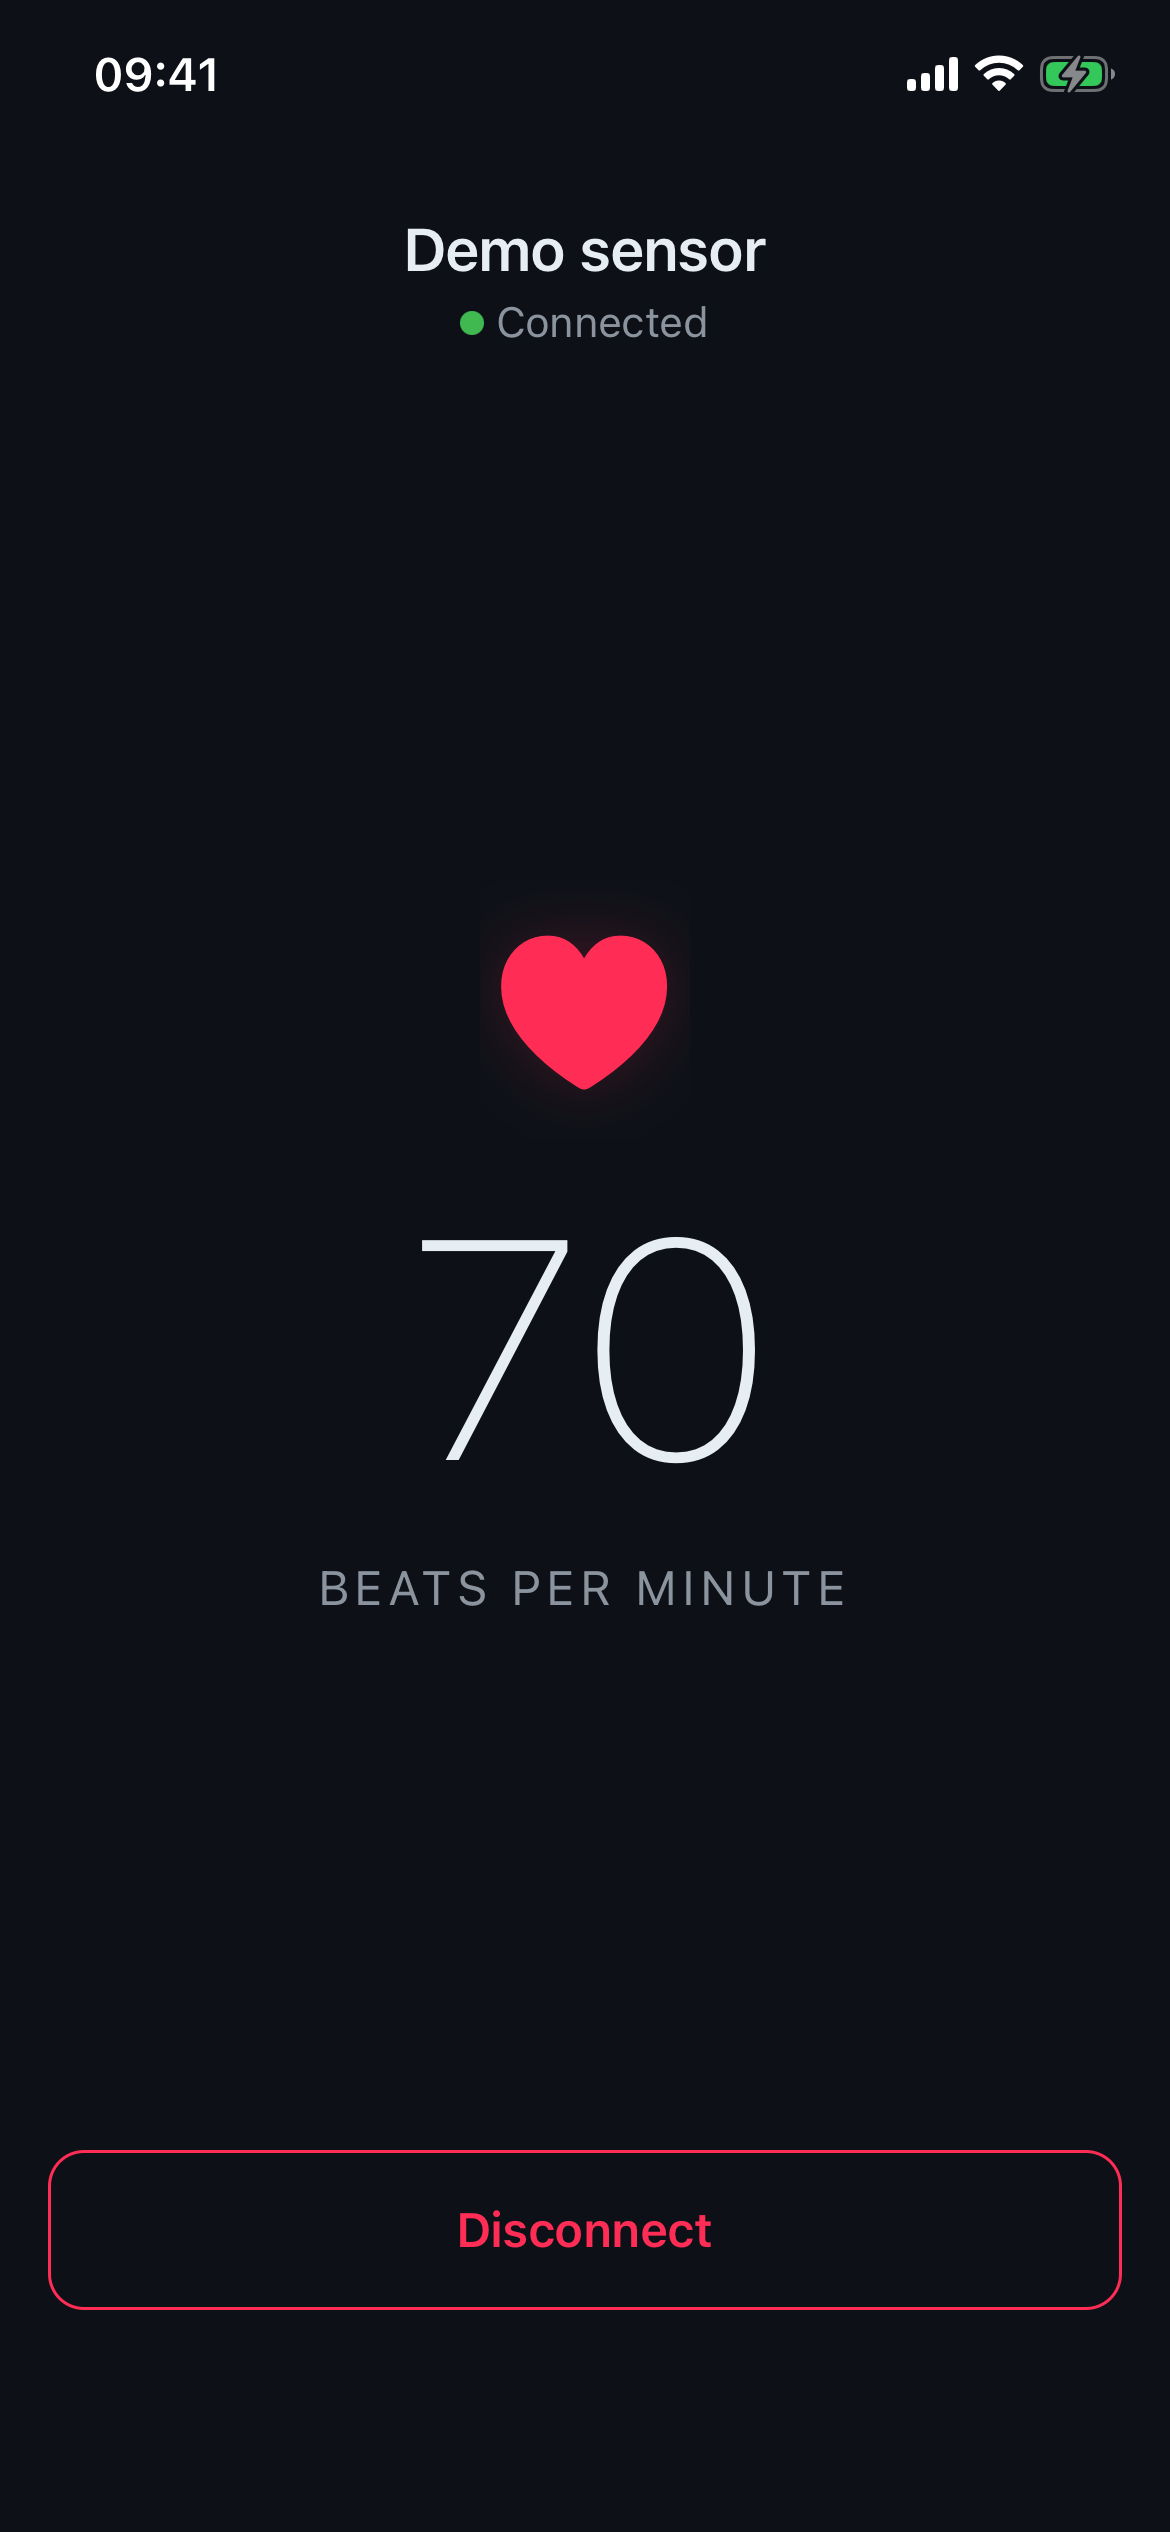
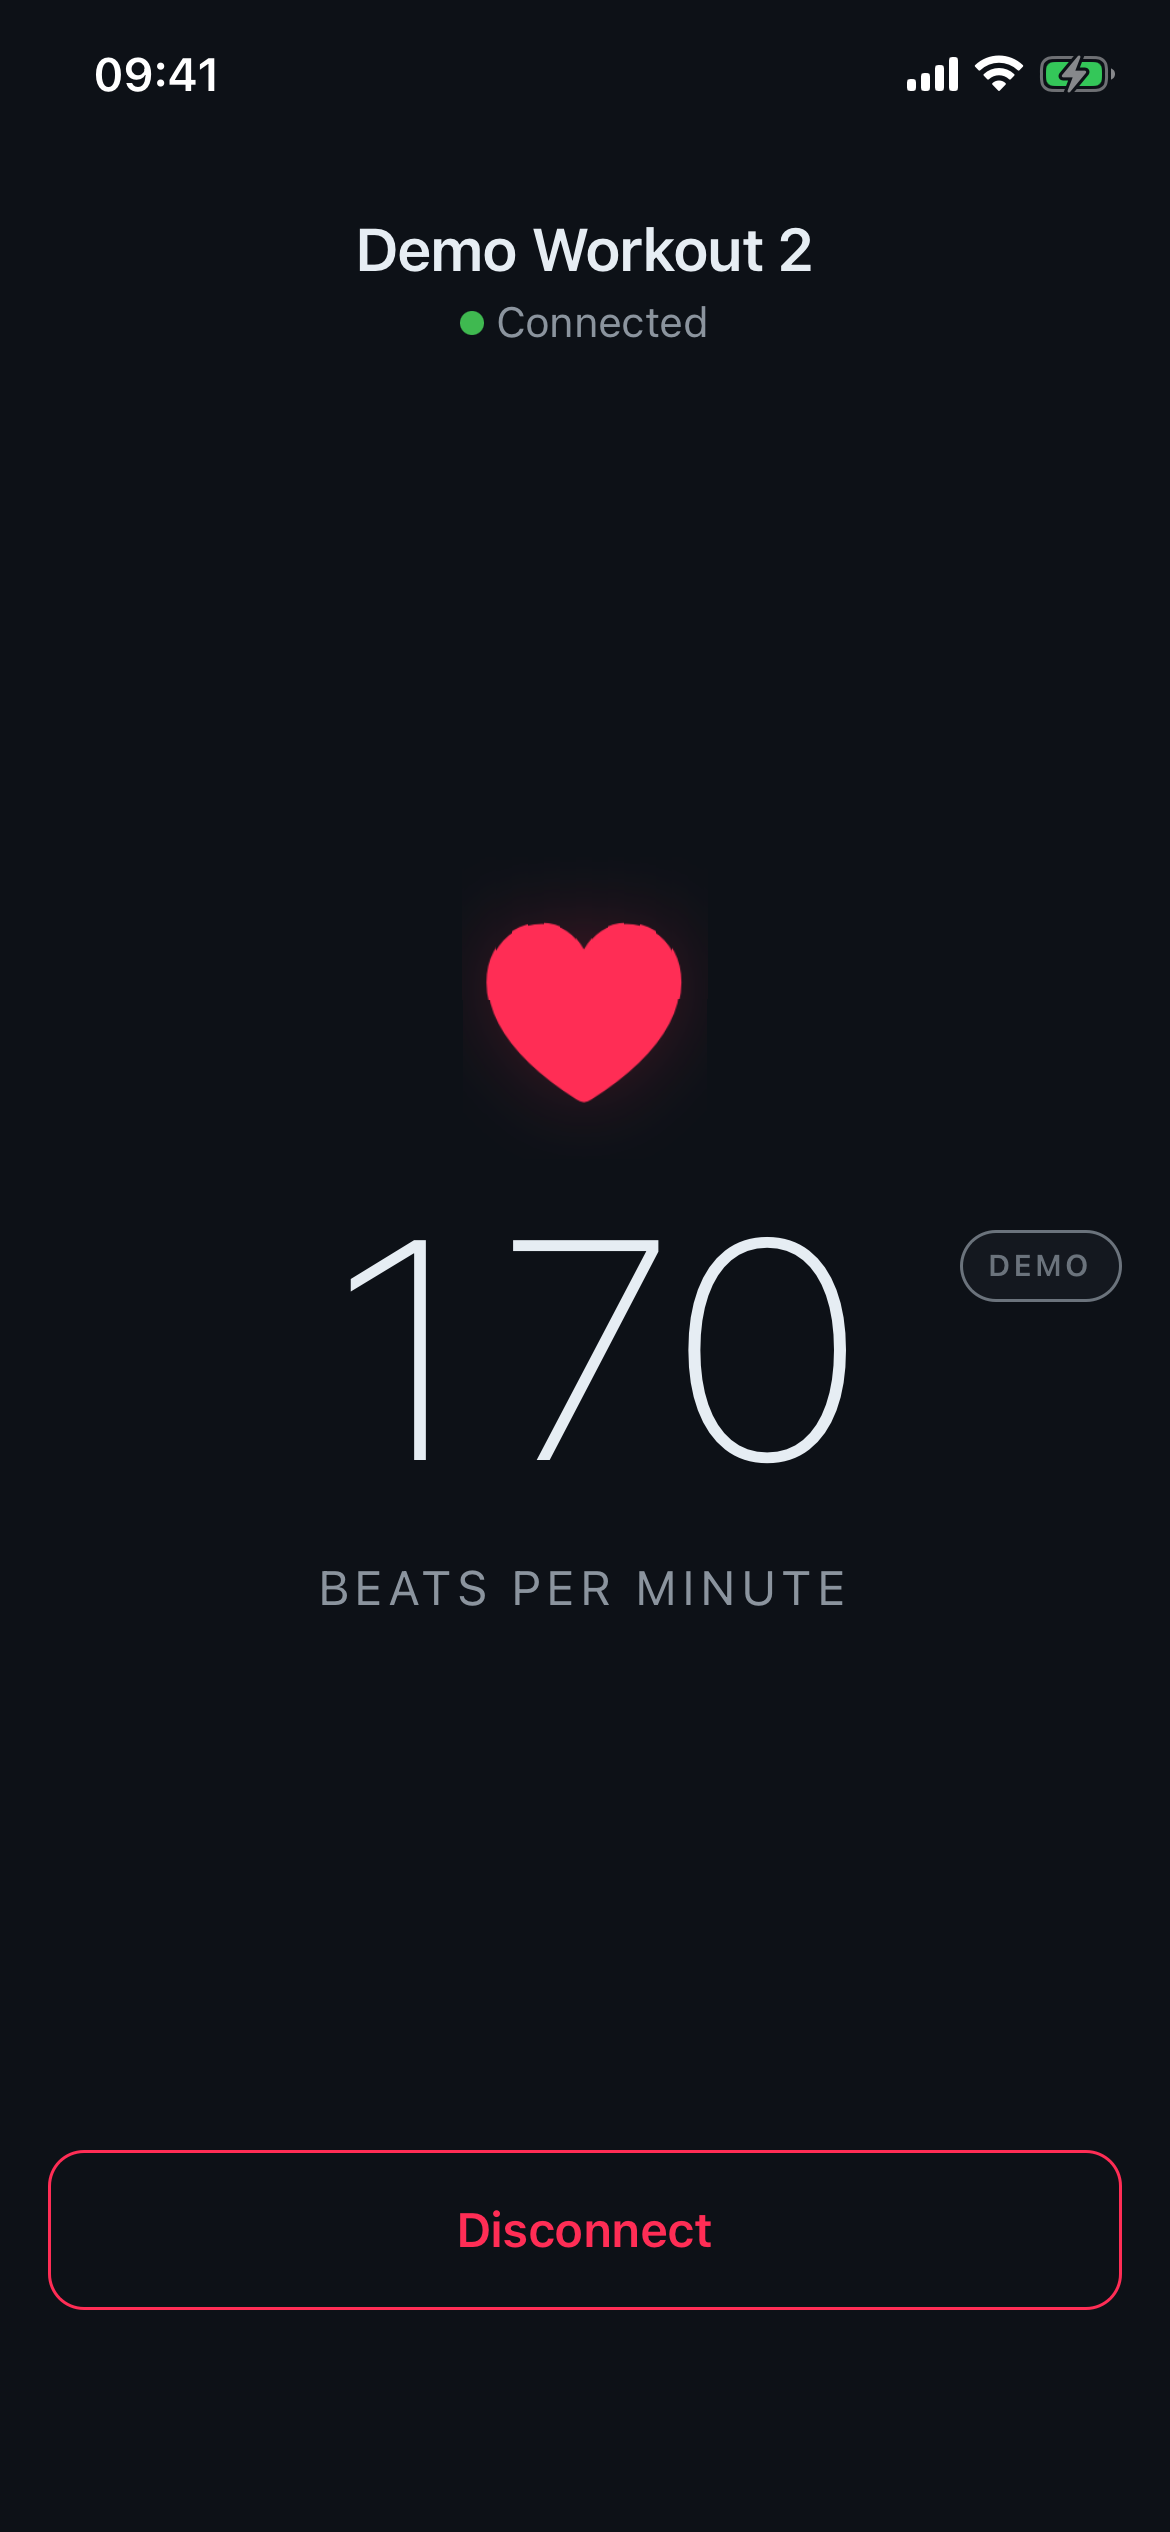
README screenshots: two demo devices and the demo panel
Regenerated on the simulator via the dev-only store/monitor globals:
scan list with a resting and a workout mock, live screen on the workout
device, and a new third shot of the demo panel controlling both.
"Grey dot" wording updated to the DEMO pill it became in #27.

Claude-Session: https://claude.ai/code/session_01VUhciEG8BmWb3DXMCqnc4d

diff --git a/README.md b/README.md
@@ -5,12 +5,15 @@ React Native (Expo) app, verified end-to-end with a Garmin watch
 broadcasting heart rate.
 
 <p>
-  <img src="docs/screenshots/scan.png" width="280" alt="Scan screen: sensor list with demo sensor" />
-  &nbsp;&nbsp;
-  <img src="docs/screenshots/live.png" width="280" alt="Live screen: beating heart and BPM" />
+  <img src="docs/screenshots/scan.png" width="260" alt="Scan screen: two demo sensors in the list" />
+  &nbsp;
+  <img src="docs/screenshots/live.png" width="260" alt="Live screen: beating heart and BPM" />
+  &nbsp;
+  <img src="docs/screenshots/demo-panel.png" width="260" alt="Demo panel: two virtual devices with power, drop and dismiss controls" />
 </p>
 
-*Simulator screenshots using the built-in demo sensor; the same UI runs
+*Simulator screenshots using two built-in demo devices (resting and
+workout profiles), controlled from the demo panel; the same UI runs
 against real hardware.*
 
 ## Try it
@@ -22,7 +25,7 @@ Distribution is via TestFlight (internal group).
 **Without hardware:** summon a demo device (**Demo Workout n** — the name
 carries the profile) — a virtual sensor that advertises and streams synthetic ~1 Hz heart rate through the
 exact same interface and staleness rules as real hardware, so the full
-flow works on any simulator. Tap the grey dot (bottom-right by default;
+flow works on any simulator. Tap the grey DEMO pill (bottom-right by default;
 drag it out of the way — it snaps to corners and mid-edges) to open the
 demo panel: summon devices with a resting, workout or dropout
 profile, power them off (⏻ — silence, no goodbye, exactly like a watch
